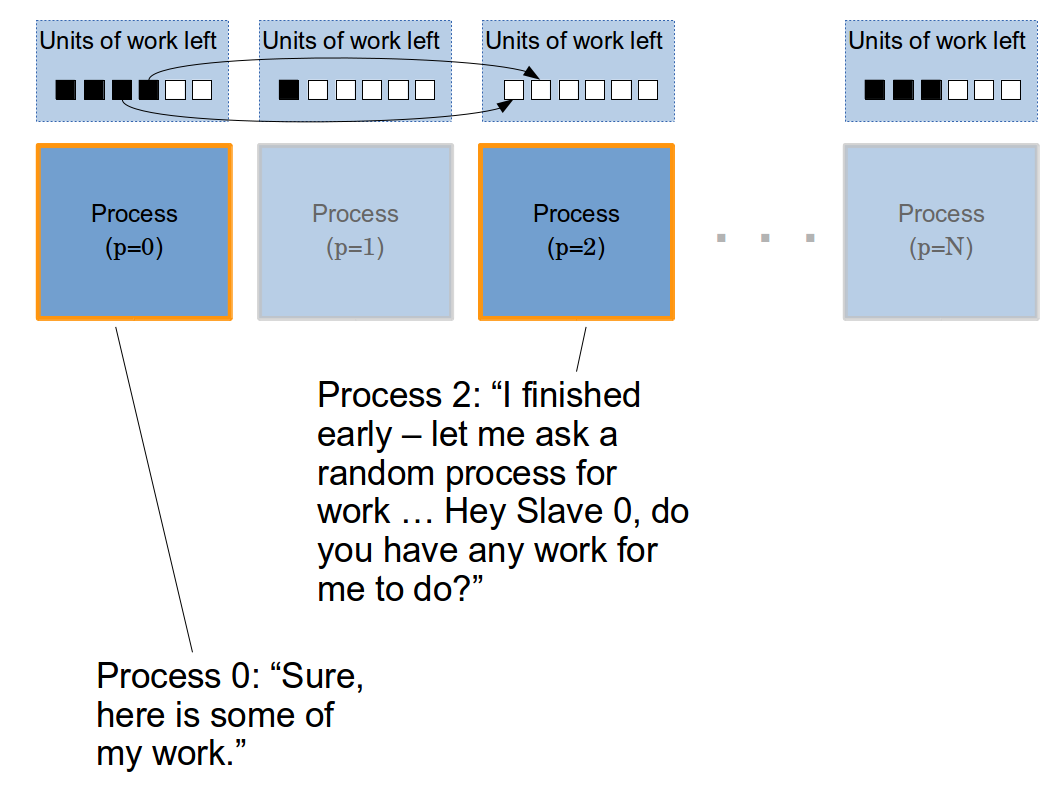
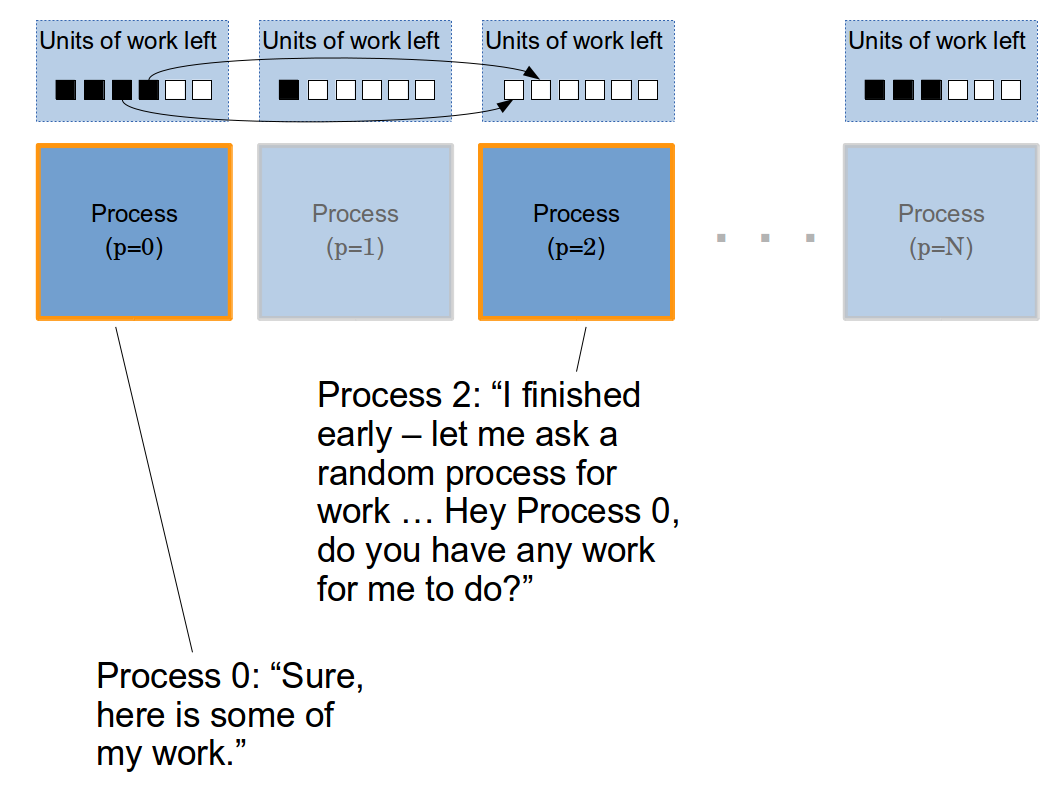
add distributed load balancing to results

Changed region(s): [[0.2807, 0.6348, 0.655, 0.7557]]

diff --git a/results.html b/results.html
@@ -94,9 +94,22 @@
             <li>Certain other constraints involving the male/female ratio in a class, or students who should be kept apart.</li>
         </ol>
 
-        <h4>Master/Slave model in MPI</h4>
+        <h4>Distributed load balancing</h4>
 
-        <p>In the first implementation, <strong>each process gets an even chunk</strong> of the integers in between the absolute min and max of the artificial objective function.</p>
+        <p>One way to split up work in MPI is to <strong>start each process gets an even chunk</strong> of the integers in between the absolute min and max of the artificial objective function, but <strong>let them communicate directly with one another if they run out of work</strong>.</p>
+
+        <div class="panel panel-default">
+          <div class="panel-body">
+            <img src="img/distributed-load-balancing.png" width="600" />
+          </div>
+          <div class="panel-footer">Using even work assignments for all processes.</div>
+        </div>
+
+        <p>With fewer processors, this was a relatively fast and efficient method. However, as the number of processes increases the overhead increases quickly. Part of the reason is that in order to avoid non-blocking communication, a process that runs out of work randomly picks a different process to ask for more. When there are many processes with relatively small search spaces, they all tend to run out fairly quickly and then spend too much time trying to contact one another before wrapping up.</p>
+
+        <h4>Master/Slave model</h4>
+
+        <p>In the first iteration of Master/Slave, <strong>each process gets an even chunk</strong> of the integers in between the absolute min and max of the artificial objective function.</p>
 
         <div class="panel panel-default">
           <div class="panel-body">
@@ -114,7 +127,7 @@
           <div class="panel-footer">Results from solving ILP with MPI master/slave.</div>
         </div>
 
-        <h4>Load balancing</h4>
+        <h4>Master/Slave model with load balancing</h4>
 
         <p>To be even more efficient, we don't want any of our slave processes to finish early (which they often do because feasible solutions are not evenly distributed through the space of integers being divided up). In our next iteration, we implemented a scheme where the master would attempt to <strong>redistribute work from the slowest process to any process that had finished</strong> all of its initial work assignment.</p>
 
